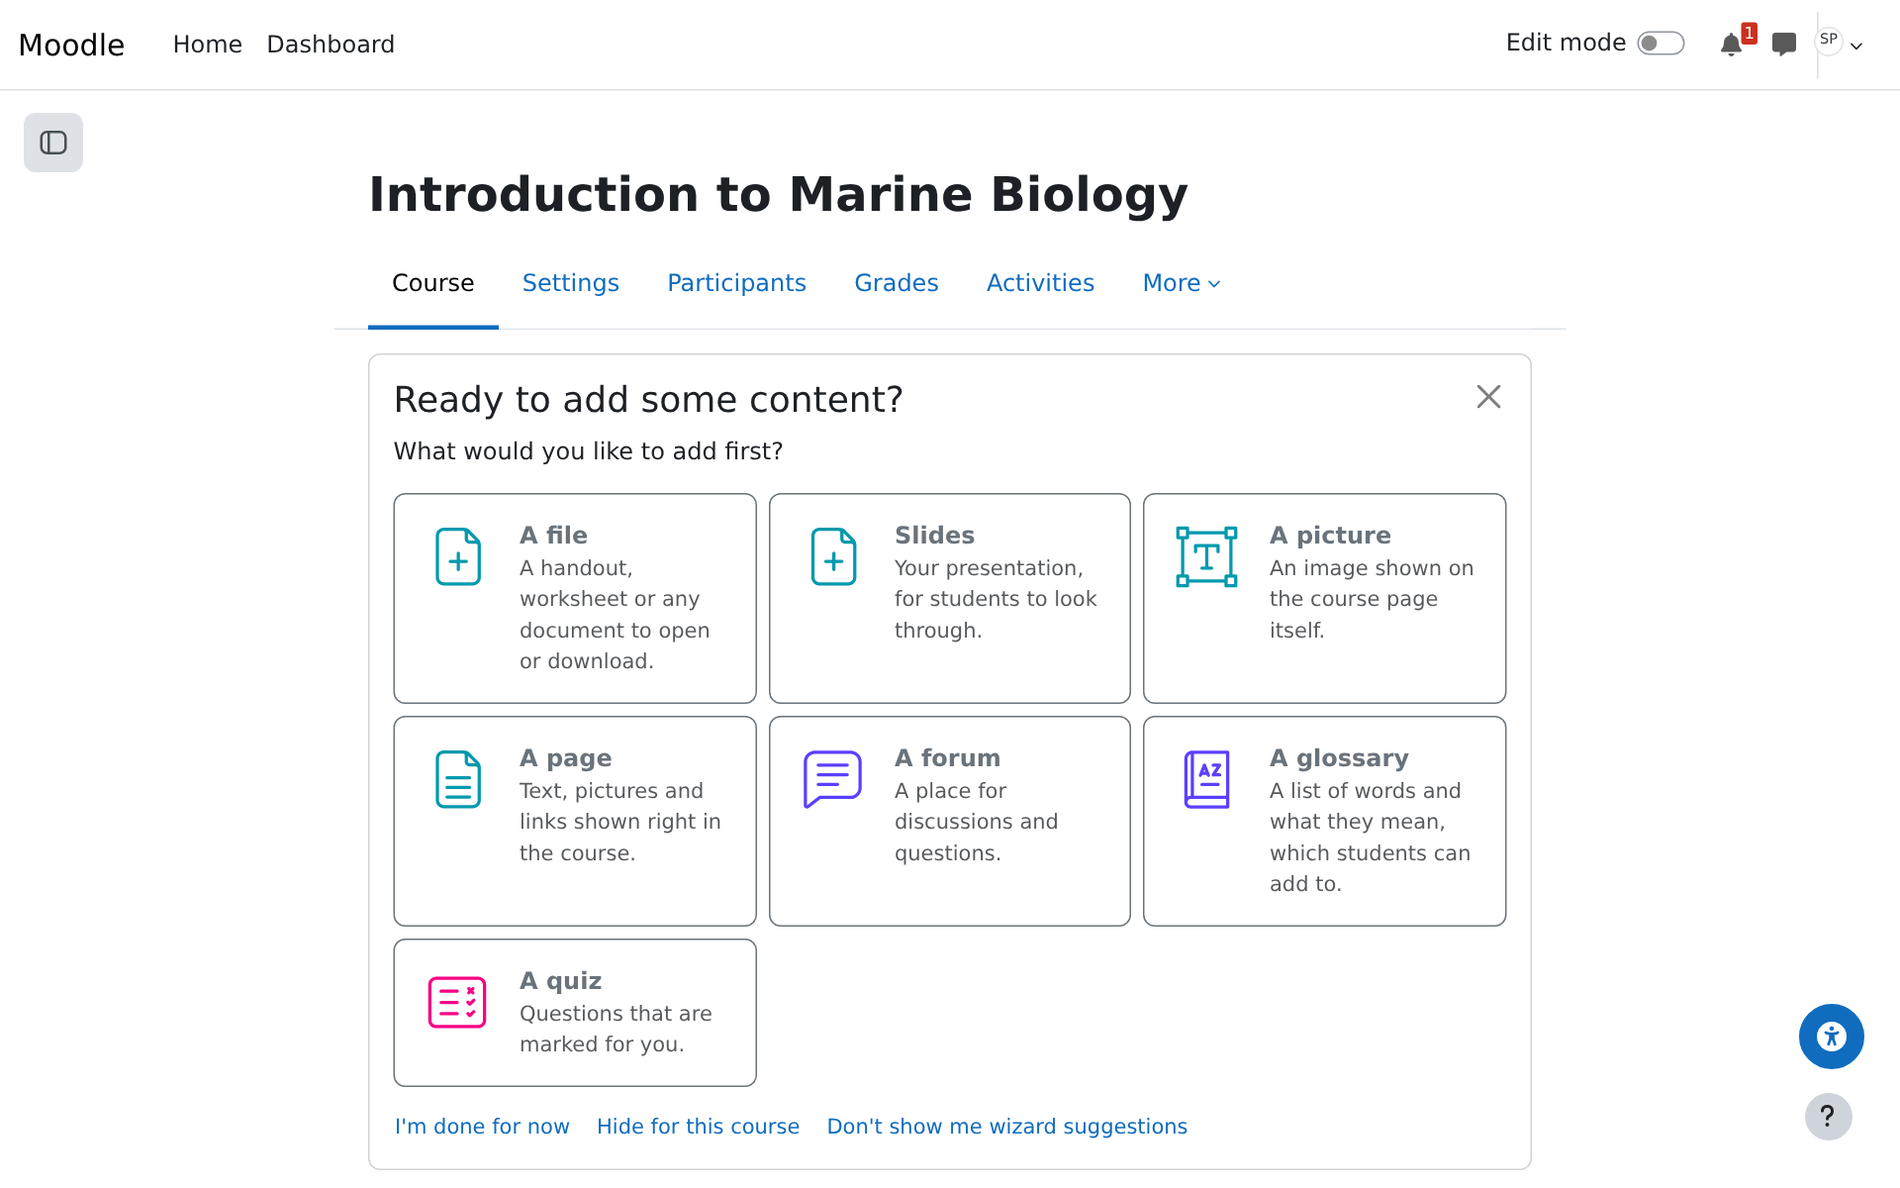
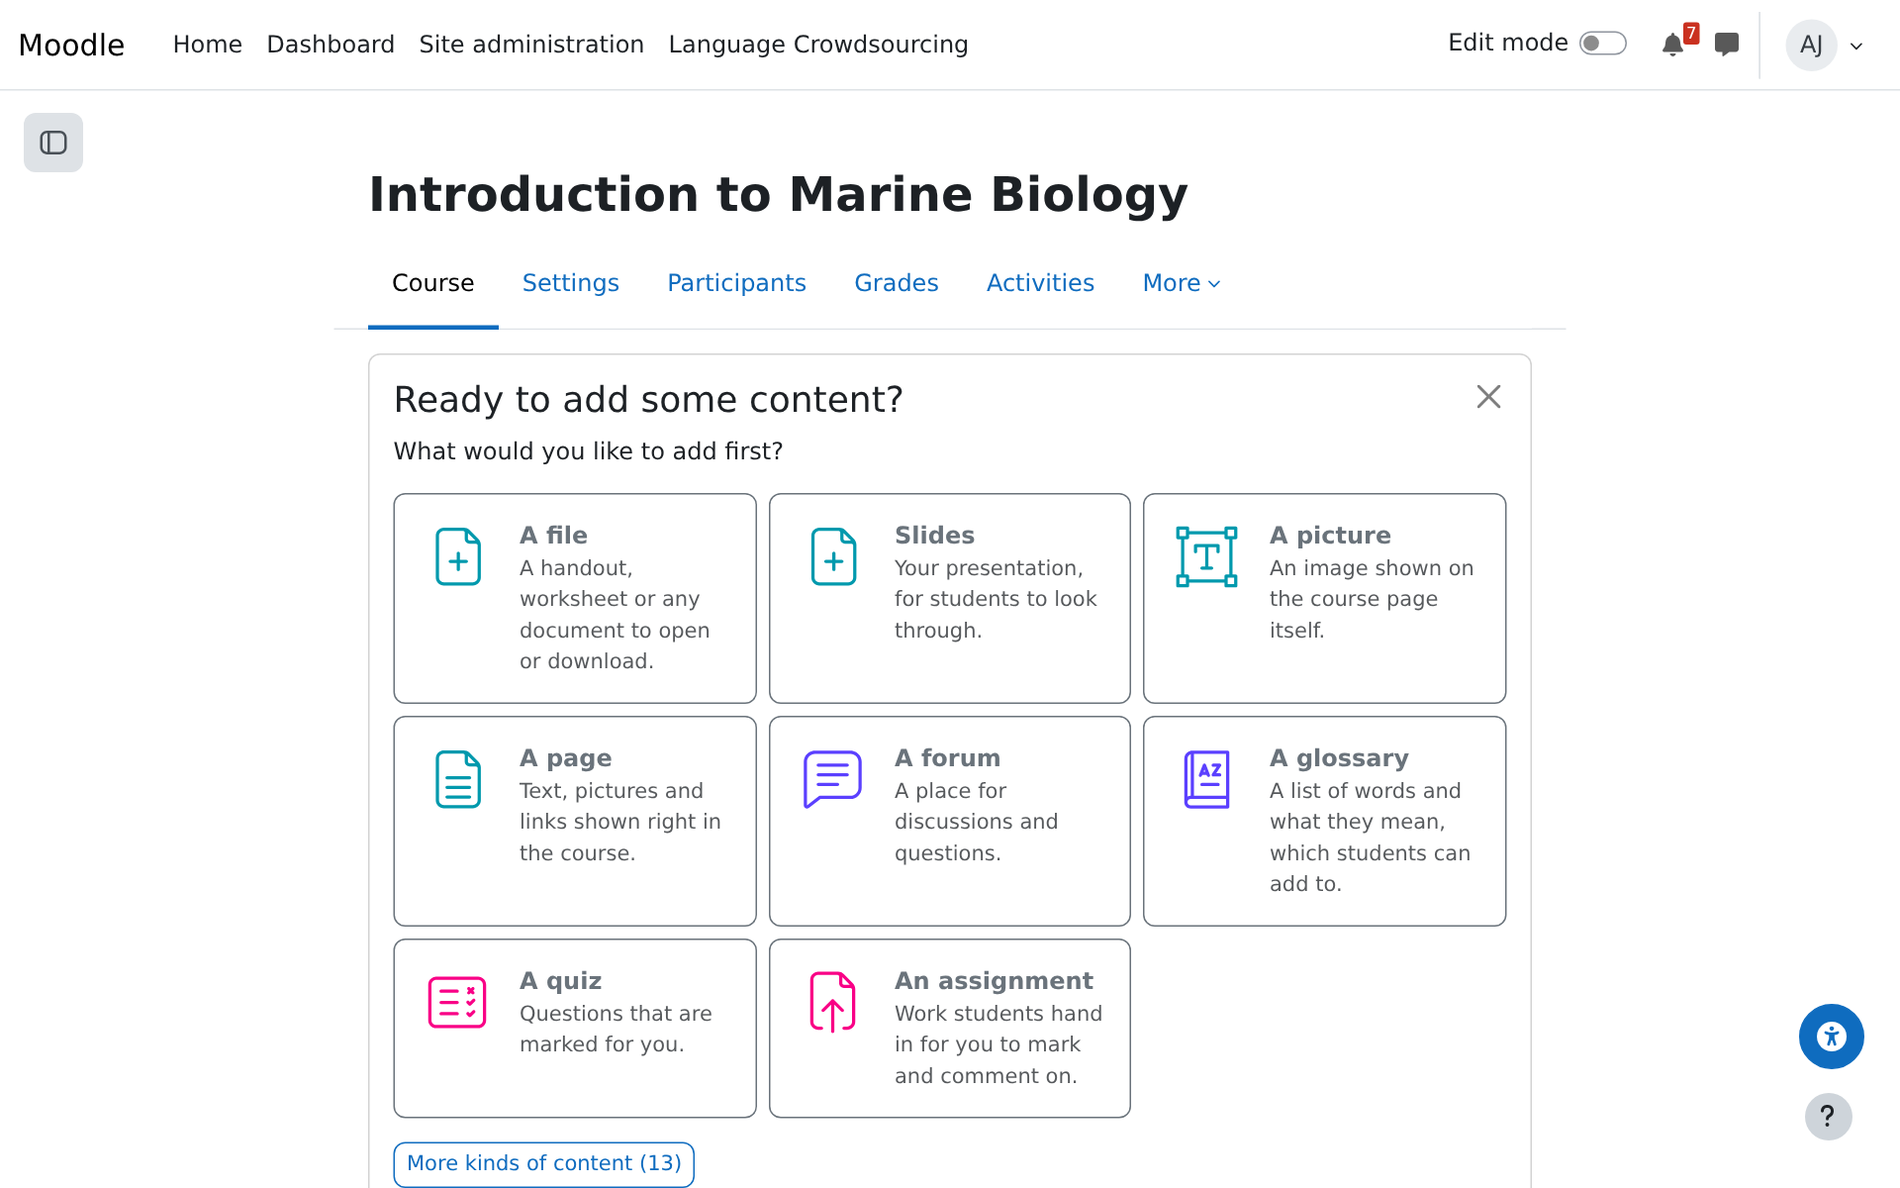
Release 0.3.1
Show wizard titles as plain text in the wizard pop-up (MDL Shield review of
0.3.0, low), stop double-escaping example titles in the workshop example
wizard, add a test for the core form internals the wizards rely on, correct
the README's capability and wizard count, and refresh the camp screenshots.

Changed region(s): [[0.1875, 0.8017, 0.625, 1.0], [0.75, 0.0, 0.9688, 0.0617], [0.2188, 0.0308, 0.5, 0.0617]]

diff --git a/amd/build/open_wizard.min.js b/amd/build/open_wizard.min.js
@@ -7,6 +7,6 @@ define("tool_wizards/open_wizard",["exports","core_form/modalform","core/modal",
    * @module     tool_wizards/open_wizard
    * @copyright  2026 Adam Jenkins <adam@wisecat.net>
    * @license    http://www.gnu.org/copyleft/gpl.html GNU GPL v3 or later
-   */Object.defineProperty(_exports,"__esModule",{value:!0}),_exports.openWizard=_exports.openContentWizard=void 0,_modalform=_interopRequireDefault(_modalform),_modal=_interopRequireDefault(_modal),_modal_events=_interopRequireDefault(_modal_events),_modal_save_cancel=_interopRequireDefault(_modal_save_cancel),_pending=_interopRequireDefault(_pending);_exports.openWizard=_ref=>{let{courseid:courseid,wizard:wizard,title:title,section:section,preview:preview,returnFocus:returnFocus}=_ref;const args={courseid:courseid,wizard:wizard};null!=section&&""!==section&&(args.section=Number(section)),preview&&(args.preview=1);const form=new _modalform.default({formClass:"tool_wizards\\form\\wizard_form",args:args,modalConfig:{title:title},saveButtonText:(0,_str.getString)("add","core"),returnFocus:returnFocus});form.addEventListener(form.events.FORM_SUBMITTED,(async e=>{if(e.detail&&e.detail.preview)return void await showPreview(e.detail.lines||[]);const pending=new _pending.default("tool_wizards/open_wizard:reload");e.detail&&e.detail.url?window.location.href=e.detail.url:window.location.reload(),pending.resolve()})),form.show()};const openContentWizard=function(_ref2){let{cmid:cmid,wizard:wizard,title:title,preview:preview,gotoactivity:gotoactivity,returnFocus:returnFocus}=_ref2,added=arguments.length>1&&void 0!==arguments[1]?arguments[1]:[];const args={cmid:cmid,wizard:wizard};preview&&(args.preview=1);const form=new _modalform.default({formClass:"tool_wizards\\form\\content_wizard_form",args:args,modalConfig:{title:title},saveButtonText:(0,_str.getString)("add","core"),returnFocus:returnFocus});form.addEventListener(form.events.FORM_SUBMITTED,(async e=>{const result=e.detail||{};if(result.preview)return void await showPreview(result.lines||[]);const done=added.concat([result.added]),finish=()=>{const pending=new _pending.default("tool_wizards/open_wizard:finish");gotoactivity&&result.url?window.location.href=result.url:window.location.reload(),pending.resolve()};result.repeat?await askAnother(done,(()=>openContentWizard({cmid:cmid,wizard:wizard,title:title,gotoactivity:gotoactivity,returnFocus:returnFocus},done)),finish):finish()})),form.show()};_exports.openContentWizard=openContentWizard;const askAnother=async(added,another,finish)=>{const body=document.createElement("div"),intro=document.createElement("p");intro.textContent=await(0,_str.getString)("content_added","tool_wizards",added.length);const list=document.createElement("ul");list.className="tool_wizards-added",added.forEach((text=>{const item=document.createElement("li");item.textContent=text,list.append(item)})),body.append(intro,list);const modal=await _modal_save_cancel.default.create({title:await(0,_str.getString)("content_addanother_title","tool_wizards"),body:body.outerHTML,buttons:{save:await(0,_str.getString)("content_addanother","tool_wizards"),cancel:await(0,_str.getString)("content_finished","tool_wizards")},removeOnClose:!0});let again=!1;modal.getRoot().on(_modal_events.default.save,(()=>{again=!0})),modal.getRoot().on(_modal_events.default.hidden,(()=>again?another():finish())),modal.show()},showPreview=async lines=>{const list=document.createElement("ul");if(list.className="tool_wizards-preview small",!lines.length){const item=document.createElement("li");item.textContent=await(0,_str.getString)("preview_nothing","tool_wizards"),list.append(item)}lines.forEach((line=>{const item=document.createElement("li");item.textContent=line,list.append(item)}));const intro=document.createElement("p");intro.textContent=await(0,_str.getString)("preview_result","tool_wizards");const body=document.createElement("div");body.append(intro,list);return await _modal.default.create({title:await(0,_str.getString)("preview_title","tool_wizards"),body:body.outerHTML,show:!0,removeOnClose:!0})}}));
+   */Object.defineProperty(_exports,"__esModule",{value:!0}),_exports.openWizard=_exports.openContentWizard=void 0,_modalform=_interopRequireDefault(_modalform),_modal=_interopRequireDefault(_modal),_modal_events=_interopRequireDefault(_modal_events),_modal_save_cancel=_interopRequireDefault(_modal_save_cancel),_pending=_interopRequireDefault(_pending);const asText=title=>{const span=document.createElement("span");return span.textContent=title||"",span.innerHTML};_exports.openWizard=_ref=>{let{courseid:courseid,wizard:wizard,title:title,section:section,preview:preview,returnFocus:returnFocus}=_ref;const args={courseid:courseid,wizard:wizard};null!=section&&""!==section&&(args.section=Number(section)),preview&&(args.preview=1);const form=new _modalform.default({formClass:"tool_wizards\\form\\wizard_form",args:args,modalConfig:{title:asText(title)},saveButtonText:(0,_str.getString)("add","core"),returnFocus:returnFocus});form.addEventListener(form.events.FORM_SUBMITTED,(async e=>{if(e.detail&&e.detail.preview)return void await showPreview(e.detail.lines||[]);const pending=new _pending.default("tool_wizards/open_wizard:reload");e.detail&&e.detail.url?window.location.href=e.detail.url:window.location.reload(),pending.resolve()})),form.show()};const openContentWizard=function(_ref2){let{cmid:cmid,wizard:wizard,title:title,preview:preview,gotoactivity:gotoactivity,returnFocus:returnFocus}=_ref2,added=arguments.length>1&&void 0!==arguments[1]?arguments[1]:[];const args={cmid:cmid,wizard:wizard};preview&&(args.preview=1);const form=new _modalform.default({formClass:"tool_wizards\\form\\content_wizard_form",args:args,modalConfig:{title:asText(title)},saveButtonText:(0,_str.getString)("add","core"),returnFocus:returnFocus});form.addEventListener(form.events.FORM_SUBMITTED,(async e=>{const result=e.detail||{};if(result.preview)return void await showPreview(result.lines||[]);const done=added.concat([result.added]),finish=()=>{const pending=new _pending.default("tool_wizards/open_wizard:finish");gotoactivity&&result.url?window.location.href=result.url:window.location.reload(),pending.resolve()};result.repeat?await askAnother(done,(()=>openContentWizard({cmid:cmid,wizard:wizard,title:title,gotoactivity:gotoactivity,returnFocus:returnFocus},done)),finish):finish()})),form.show()};_exports.openContentWizard=openContentWizard;const askAnother=async(added,another,finish)=>{const body=document.createElement("div"),intro=document.createElement("p");intro.textContent=await(0,_str.getString)("content_added","tool_wizards",added.length);const list=document.createElement("ul");list.className="tool_wizards-added",added.forEach((text=>{const item=document.createElement("li");item.textContent=text,list.append(item)})),body.append(intro,list);const modal=await _modal_save_cancel.default.create({title:await(0,_str.getString)("content_addanother_title","tool_wizards"),body:body.outerHTML,buttons:{save:await(0,_str.getString)("content_addanother","tool_wizards"),cancel:await(0,_str.getString)("content_finished","tool_wizards")},removeOnClose:!0});let again=!1;modal.getRoot().on(_modal_events.default.save,(()=>{again=!0})),modal.getRoot().on(_modal_events.default.hidden,(()=>again?another():finish())),modal.show()},showPreview=async lines=>{const list=document.createElement("ul");if(list.className="tool_wizards-preview small",!lines.length){const item=document.createElement("li");item.textContent=await(0,_str.getString)("preview_nothing","tool_wizards"),list.append(item)}lines.forEach((line=>{const item=document.createElement("li");item.textContent=line,list.append(item)}));const intro=document.createElement("p");intro.textContent=await(0,_str.getString)("preview_result","tool_wizards");const body=document.createElement("div");body.append(intro,list);return await _modal.default.create({title:await(0,_str.getString)("preview_title","tool_wizards"),body:body.outerHTML,show:!0,removeOnClose:!0})}}));
 
 //# sourceMappingURL=open_wizard.min.js.map

diff --git a/amd/src/open_wizard.js b/amd/src/open_wizard.js
@@ -37,6 +37,19 @@ const FORM_CLASS = 'tool_wizards\\form\\wizard_form';
 const CONTENT_FORM_CLASS = 'tool_wizards\\form\\content_wizard_form';
 
 /**
+ * A wizard's title as HTML that shows it as plain text. Core's modal sets its title as HTML, and a title comes
+ * from an admin-authored wizard definition (read back from a data attribute, which decodes it), so it is escaped here.
+ *
+ * @param {string} title the title, as plain text
+ * @returns {string} HTML
+ */
+const asText = (title) => {
+    const span = document.createElement('span');
+    span.textContent = title || '';
+    return span.innerHTML;
+};
+
+/**
  * Open a wizard.
  *
  * @param {Object} options
@@ -58,7 +71,7 @@ export const openWizard = ({courseid, wizard, title, section, preview, returnFoc
     const form = new ModalForm({
         formClass: FORM_CLASS,
         args,
-        modalConfig: {title},
+        modalConfig: {title: asText(title)},
         saveButtonText: getString('add', 'core'),
         returnFocus,
     });
@@ -101,7 +114,7 @@ export const openContentWizard = ({cmid, wizard, title, preview, gotoactivity, r
     const form = new ModalForm({
         formClass: CONTENT_FORM_CLASS,
         args,
-        modalConfig: {title},
+        modalConfig: {title: asText(title)},
         saveButtonText: getString('add', 'core'),
         returnFocus,
     });

diff --git a/tests/local/core_internals_test.php b/tests/local/core_internals_test.php
@@ -1,0 +1,75 @@
+<?php
+// This file is part of Moodle - http://moodle.org/
+//
+// Moodle is free software: you can redistribute it and/or modify
+// it under the terms of the GNU General Public License as published by
+// the Free Software Foundation, either version 3 of the License, or
+// (at your option) any later version.
+//
+// Moodle is distributed in the hope that it will be useful,
+// but WITHOUT ANY WARRANTY; without even the implied warranty of
+// MERCHANTABILITY or FITNESS FOR A PARTICULAR PURPOSE.  See the
+// GNU General Public License for more details.
+//
+// You should have received a copy of the GNU General Public License
+// along with Moodle.  If not, see <http://www.gnu.org/licenses/>.
+
+namespace tool_wizards\local;
+
+use advanced_testcase;
+
+/**
+ * The parts of core's forms that the wizards rely on but that are not a public API.
+ *
+ * The wizards submit answers through core's own forms, so they read some of those forms' internals
+ * (form_submission, course_defaults_form, introspector). If a Moodle release changes one of them, this
+ * test fails with its name, rather than a wizard quietly submitting the wrong data.
+ *
+ * @package    tool_wizards
+ * @category   test
+ * @copyright  2026 Adam Jenkins <adam@wisecat.net>
+ * @license    http://www.gnu.org/copyleft/gpl.html GNU GPL v3 or later
+ */
+#[\PHPUnit\Framework\Attributes\CoversClass(form_submission::class)]
+#[\PHPUnit\Framework\Attributes\CoversClass(course_defaults_form::class)]
+final class core_internals_test extends advanced_testcase {
+    /**
+     * The moodleform members read through reflection or a subclass.
+     */
+    public function test_moodleform_members(): void {
+        global $CFG;
+        require_once($CFG->libdir . '/formslib.php');
+        foreach (['_form', '_definition_finalized'] as $name) {
+            $this->assertTrue(property_exists(\moodleform::class, $name), "moodleform::\$$name is gone");
+        }
+    }
+
+    /**
+     * The MoodleQuickForm members read directly.
+     */
+    public function test_quickform_members(): void {
+        global $CFG;
+        require_once($CFG->libdir . '/formslib.php');
+        $mform = new \MoodleQuickForm('tool_wizards_internals', 'post', '');
+        $mform->addElement('text', 'name', 'Name');
+        $mform->setType('name', PARAM_TEXT);
+        $mform->addRule('name', null, 'required');
+        $mform->addElement('advcheckbox', 'flag', 'Flag');
+        $mform->disabledIf('name', 'flag', 'checked');
+        $mform->setDefault('name', 'x');
+
+        foreach (['_elements', '_errors', '_defaultValues', '_rules'] as $name) {
+            $this->assertTrue(property_exists($mform, $name), "MoodleQuickForm::\$$name is gone");
+            $this->assertTrue((new \ReflectionProperty($mform, $name))->isPublic(), "MoodleQuickForm::\$$name is no longer public");
+        }
+        $this->assertNotEmpty($mform->_elements);
+        $this->assertArrayHasKey('name', $mform->_rules);
+        $this->assertSame('x', $mform->_defaultValues['name']);
+
+        $this->assertTrue(method_exists($mform, 'getLockOptionObject'), 'MoodleQuickForm::getLockOptionObject() is gone');
+        $lock = $mform->getLockOptionObject();
+        $this->assertIsArray($lock);
+        $this->assertCount(2, $lock);
+        $this->assertArrayHasKey('flag', $lock[1], 'getLockOptionObject() no longer keys dependencies by their field');
+    }
+}

diff --git a/classes/local/wizard/content/workshop_example.php b/classes/local/wizard/content/workshop_example.php
@@ -231,7 +231,8 @@ class workshop_example extends content {
         }
         $DB->update_record('workshop_submissions', $formdata);
 
-        return get_string('workshopexample_added', 'tool_wizards', format_string($data['title']));
+        $title = format_string($data['title'], true, ['context' => $cm->context, 'escape' => false]);
+        return get_string('workshopexample_added', 'tool_wizards', $title);
     }
 
     /**

diff --git a/version.php b/version.php
@@ -25,8 +25,8 @@
 defined('MOODLE_INTERNAL') || die();
 
 $plugin->component = 'tool_wizards';
-$plugin->version   = 2026101003;
+$plugin->version   = 2026101004;
 $plugin->requires  = 2026042000; // Moodle 5.2.0.
 $plugin->supported = [502, 503];
 $plugin->maturity  = MATURITY_BETA;
-$plugin->release   = '0.3.0';
+$plugin->release   = '0.3.1';

diff --git a/CHANGES.md b/CHANGES.md
@@ -1,36 +1,19 @@
-# Wizards 0.3.0
+# Wizards 0.3.1
 
-## Added
+## Security
 
-- Wizards for every core activity and resource: assignment, link, folder, book, choice, feedback,
-  database, wiki, lesson, workshop, H5P, SCORM, IMS content package, external tool (one of the
-  course's tools), BigBlueButton and subsection, and a question bank wizard on the course's
-  Question banks page.
-- In-activity wizards, which add content to an activity that already exists, one item at a time
-  with "Add another": quiz and question bank questions (eight kinds), question bank categories
-  (by chapter, unit, week, lesson, topics or your own word, with common subcategories in each),
-  lesson pages, book chapters, glossary entries, database fields, feedback questions, choice
-  options, and a workshop's assessment form, allocation of reviews, example work and phase.
-  Teachers find them as "Add with a wizard" on the activity's own pages and straight after an
-  activity wizard adds the activity. Plugins can add their own through the `collect_extensions`
-  hook.
-- The wizard list is grouped into course, activity and in-activity wizards, with an on/off switch
-  per wizard, per group and per activity that saves without reloading the page.
-- Import takes one JSON file holding many wizards, and "Export as one JSON file" writes them that
-  way.
-- File questions can take several files (used by the folder wizard).
-
-## Changed
-
-- The first-content card shows the first eight wizards and keeps the rest behind "More kinds of
-  content".
+- A wizard's title is now always shown as plain text in the pop-up that opens the wizard. Before, HTML
+  in a title (which only people who can manage wizards can write) was shown as HTML there.
 
 ## Fixed
 
-- The file, slides and folder wizards opened no file picker.
-- The H5P and SCORM wizards refused an uploaded package as "Required".
-- A multiple-choice question with more than five answers failed to save.
-- A hidden question's help line stayed visible.
-- A question bank counted as course content, hiding the first-content card.
-- "Bring back the course wizards" and "Hide for this course" now require the same add-content
-  capability as every other way into the wizards.
+- The "Added so far" list of the example work wizard no longer shows an "&" in a title as "&amp;".
+
+## Changed
+
+- New tests check the parts of core's forms that the wizards rely on, so a Moodle release that changes
+  them fails the tests with a clear message.
+- The README lists the plugin's capability (`tool/wizards:managewizards`), the permissions each kind of
+  wizard needs, and the 38 wizards that come with the plugin.
+- The camp listing shows the current first-content card and the admin list of wizards, and the question bank
+  categories wizard.

diff --git a/README.md b/README.md
@@ -130,13 +130,15 @@ wizard has added the activity.
 
 ## Managing wizards
 
-Every wizard, including the course wizard and the seven content wizards that come with the
-plugin, is a **definition**: a JSON document that says what it creates, which screens and
+Every wizard, including the 38 that come with the plugin (the course wizard, 24 activity
+wizards and 13 in-activity wizards), is a **definition**: a JSON document that says what it creates, which screens and
 questions it has, how answers turn into settings, and what each purpose pre-fills. Site
 administrators (capability `tool/wizards:managewizards`) manage them in
 *Site administration > Courses > Wizards > Manage wizards*:
 
-- **Enable, disable and order** the wizards teachers see. Teachers also find them under
+- **Enable, disable and order** the wizards teachers see. The list is grouped into course,
+  activity and in-activity wizards, with an on/off switch per wizard, per group and per activity
+  that saves without reloading the page. Teachers also find the activity wizards under
   **"Add with a wizard"** in each course section's add menu, in edit mode.
 - **Edit** a wizard's wording in every installed language, the order of its screens, and its
   pictures (shipped ones, or your own PNG, JPEG, WebP, SVG or GIF uploads).
@@ -179,10 +181,17 @@ Site administration > Courses > Wizards:
   many activities or fewer (default 1). The Announcements forum is not counted.
 - **Show wizard links next to "Add a new course"**.
 
-The plugin adds no capabilities. Each wizard needs the permission its action needs anyway:
-`moodle/course:create` in the category for the course wizard, and
-`moodle/course:manageactivities` plus the activity's own `mod/…:addinstance` for the first
-content.
+The plugin adds one capability, `tool/wizards:managewizards` (manage the wizards; site
+administrators only by default). Using a wizard needs the permissions its action needs anyway:
+
+- the course wizard: `moodle/course:create` in the category;
+- an activity wizard: `moodle/course:manageactivities` plus the activity's own
+  `mod/…:addinstance`;
+- an in-activity wizard: `moodle/course:manageactivities` plus what adding that content needs,
+  for example `moodle/question:add` for questions or `moodle/question:managecategory` for
+  question bank categories.
+
+So students and non-editing teachers never see the wizards.
 
 ## Requirements
 

diff --git a/changelog.md b/changelog.md
@@ -3,6 +3,28 @@
 All notable changes to this plugin are documented here. The format follows
 [Keep a Changelog](https://keepachangelog.com/).
 
+## [0.3.1] - 2026-10-10
+
+### Security
+
+- A wizard's title is now always shown as plain text in the pop-up that opens the wizard
+  (`amd/src/open_wizard.js`). Core's modal sets its title as HTML, and HTML in a title (which
+  only holders of `tool/wizards:managewizards` can write) was shown as HTML there. Found by an
+  MDL Shield review of 0.3.0 (grade A, rated low).
+
+### Fixed
+
+- The example work wizard's "Added so far" list showed an "&" in a title as "&amp;".
+
+### Changed
+
+- `tests/local/core_internals_test.php` checks the core form internals the wizards read, so a
+  Moodle release that changes one fails by name.
+- README: the capability, the permissions each kind of wizard needs, and the count of shipped
+  wizards (38) are corrected.
+- camp listing: the first-content card and the admin list of wizards screenshots show the current
+  interface, and the question bank categories wizard replaces the forum purpose screenshot.
+
 ## [0.3.0] - 2026-10-10
 
 ### Added
